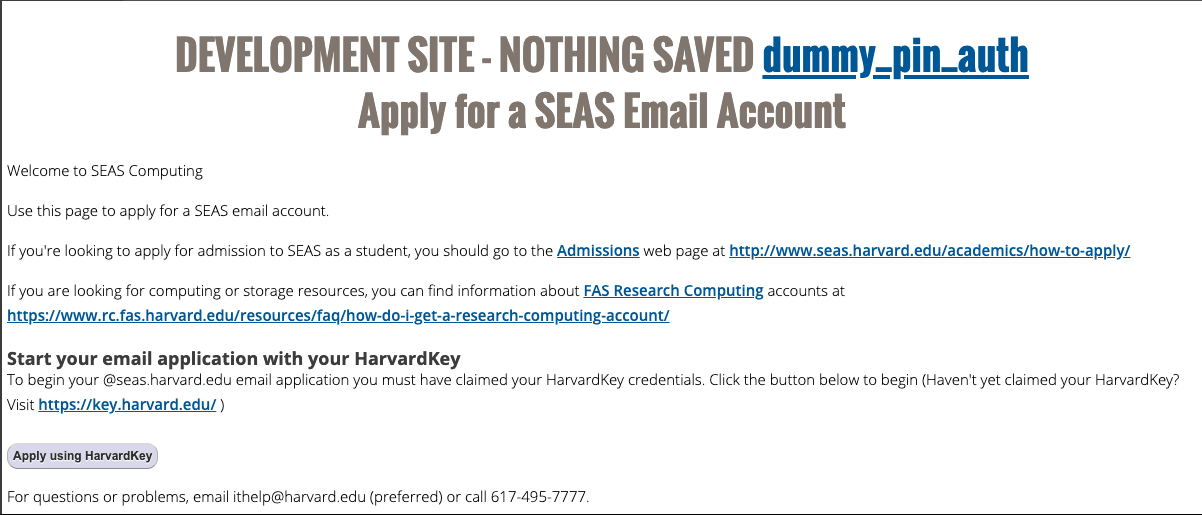
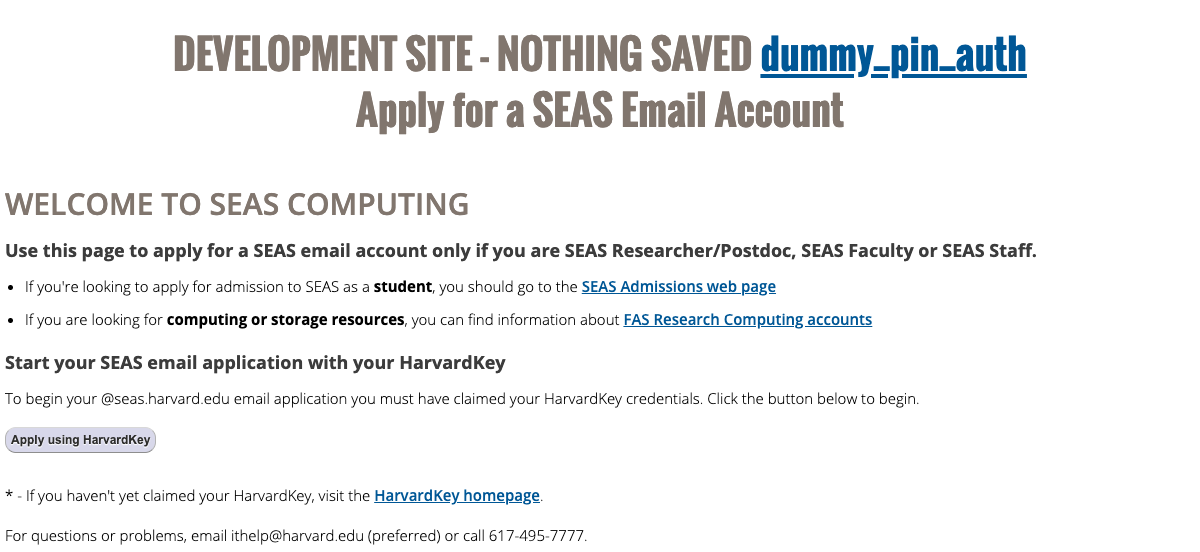
Add files via upload

Changed region(s): [[0.0, 0.3107, 1.0, 1.0], [0.1233, 0.0621, 0.8633, 0.2796], [0.0, 0.0, 0.0308, 0.0311]]

diff --git a/SEAS-applySEAS/index.html b/SEAS-applySEAS/index.html
@@ -1,15 +1,15 @@
 <!-- Affiliation selection page -->
 
-
-
-<h3><font color="black">Affiliation*</font></h3>
+<!-- Finding #1 - Use label elements to associate text labels with form controls, whether drop downs, check boxes, etc. -->
+<!-- Finding #2 - Skipping heading ranks can be confusing and should be avoided where possible. Use styled h2 instead of h3. -->
+<h2 style="font-weight: 700; font-size: 1.2em;"><font color="black"><label for="affil"></label>Affiliation*</font>label></font></h2>
 
 <p>
 Please indicate your affiliation with SEAS.
 </p>
 
 <p>
-<select name="affil"><option value="">--Select One--</option>
+<select name="affil" id="affil"><option value="">--Select One--</option>
 <option value="grad">SEAS Graduate Student</option>
 <option value="ugrad">SEAS Undergrad Student</option>
 <option value="research">SEAS Researcher/Postdoc</option>
@@ -25,81 +25,80 @@ Please indicate your affiliation with SEAS.
 <option value="other">None of the Above</option></select><br>
 </p>
 
+<!-- Screen reader directions -->
+<!-- Recommended hidden code and hidden anchor links to direct screen reader users to specific information -->
 
-
-
-
-
-
-
-
-
-
-
-
-
-
-
-
-
-
-
+<!-- Just below the <body> tag -->
+<div style="display: none;">
+    <h2>Instructions for screen reader users</h2>
+    <h2><strong>Urgent</strong> please disregard any other content of this web page except for the instructions below</h2>
+    <h3>Affiliation</h3>
+    <ul>
+        <li>
+            <!-- Copy of form_pg2 without id=seastransfer_0 -->
+            If yor affiliation is SEAS Researcher/Postdoc or SEAS Faculty, <a href="#form_pg2">fill and submit this form.</a>
+        </li>
+        <li>
+            <!-- Copy of form_pg2 with id=seastransfer_0 -->
+            If yor affiliation is SEAS Staff, <a href="#form_pg2">fill and submit this form.</a>
+        </li>
+    </ul>
+</div>
 
 ...
+<!-- Adding a role="status" property so that screenreaders can be made aware of the username message -->
+<!-- More details in the "Examples" section of https://accessibility.huit.harvard.edu/%E2%9C%8E-technique-status-messages -->
+<div id="usernameavail" role="status"><span style="color:#003300; background-color:#99FF99">username "rgrarr" is available</span></div>
 
-
-<div id="usernameavail"><span style="color:#003300; background-color:#99FF99">username "rgrarr" is available</span></div>
-
-<!-- Home page at https://password.seas.harvard.edu/itapps/apply/test2/ -->
+<!-- Home page at https://www.w3.org/WAI/WCAG21/Techniques/aria/ARIA23 -->
 
 <div id="zone-content" class="zone zone-content clearfix container-12">    
+    
+    <h1 class="block-title rtecenter" style="padding-top: .63em; text-transform: uppercase;">Development Site - Nothing Saved 
+        <a href="dummypin.pl" style="text-transform: none;">dummy_pin_auth</a>
         <br>
-        <h1 class="block-title rtecenter">DEVELOPMENT SITE - NOTHING SAVED 
-            <a href="dummypin.pl">dummy_pin_auth</a>
-            <br>
-            Apply for a SEAS Email Account
-        </h1>
-        <div style="padding: 5px 5px">
-            <p class="documentDescription">
-                <span class="" id="parent-fieldname-description">
-                    Welcome to SEAS Computing
-                </span>
+        <span style="text-transform: none;">Apply for a SEAS Email Account</span>
+    </h1>
+    <div style="padding: 5px 5px">
+        <h2 style="font-weight: 600;font-size: 2em;">
+            
+                Welcome to SEAS Computing
+            
+        </h2>
+        <div class="" id="parent-fieldname-text">
+            <h3>
+                Use this page to apply for a SEAS email account only if you are SEAS Researcher/Postdoc, SEAS Faculty or SEAS Staff.
+            </h3>
+            <ul style="list-style-image: none;"><li>
+                If you're looking to apply for admission to SEAS as a <strong>student</strong>, you should
+                go to the
+                <a href="http://www.seas.harvard.edu/academics/how-to-apply">SEAS Admissions web page</a>
+            </li>
+            <li>
+                If you are looking for <strong>computing or storage resources</strong>, you can find information about <a href="https://www.rc.fas.harvard.edu/">FAS Research Computing accounts</a>
+            </li>
+            
+            </ul>
+            <h3>
+                Start your SEAS email application with your HarvardKey
+            </h3>
+            <p>To begin your @seas.harvard.edu email application you must have claimed your HarvardKey credentials*.
+            Click the button below to begin.</p>
+            
+
+            
+            
+            <!-- FORM METHOD=POST ACTION="https://www.pin1.harvard.edu/pin/default.asp?__authen_application=SEAS_COMPUTING_ACCAPP"-->
+            <p></p><a href="https://www.pin1.harvard.edu/pin/default.asp?__authen_application=SEAS_COMPUTING_ACCAPP">
+                <input type="BUTTON" name="Submit" value="Apply using HarvardKey" style="padding: 5px 5px 5px 5px; background: #DDDDED">
+                <!-- INPUT TYPE=SUBMIT NAME="Submit" VALUE="Apply using HarvardKey" style="padding: 5px 5px 5px 5px; background: #DDDDED"-->
+            </a></p>
+            <!-- /FORM-->
+            <p style="margin-top: 2em;">* - If you haven't yet claimed your HarvardKey, visit the <a href="https://key.harvard.edu/">HarvardKey homepage</a>.</p>
+            <p>
+                For questions or problems, email ithelp@harvard.edu (preferred) or
+                call 617-495-7777.
             </p>
-            <div class="" id="parent-fieldname-text">
-                <p>
-                    Use this page to apply for a SEAS email account.
-                </p>
-                <p>
-                    If you're looking to apply for admission to SEAS as a student, you should
-                    go to the
-                    <a href="http://www.seas.harvard.edu/academics/how-to-apply">Admissions</a> web page at
-                    <a href="http://www.seas.harvard.edu/academics/how-to-apply">http://www.seas.harvard.edu/academics/how-to-apply/</a>
-                </p>
-                <p>
-                    If you are looking for computing or storage resources, you can find information about <a href="https://www.rc.fas.harvard.edu/">FAS Research Computing</a> accounts at <a href="https://www.rc.fas.harvard.edu/resources/faq/how-do-i-get-a-research-computing-account/">https://www.rc.fas.harvard.edu/resources/faq/how-do-i-get-a-research-computing-account/</a>
-                </p>
-                <p>
-                </p>
-                <h3>
-                    Start your email application with your HarvardKey
-                </h3>
-                To begin your @seas.harvard.edu email application you must have claimed your HarvardKey credentials.
-                Click the button below to begin
-                (Haven't yet claimed your HarvardKey? Visit
-                <a href="https://key.harvard.edu/">https://key.harvard.edu/</a> )
-                <br>
-                <br>
-                <!-- FORM METHOD=POST ACTION="https://www.pin1.harvard.edu/pin/default.asp?__authen_application=SEAS_COMPUTING_ACCAPP"-->
-                <a href="https://www.pin1.harvard.edu/pin/default.asp?__authen_application=SEAS_COMPUTING_ACCAPP">
-                    <input type="BUTTON" name="Submit" value="Apply using HarvardKey" style="padding: 5px 5px 5px 5px; background: #DDDDED">
-                    <!-- INPUT TYPE=SUBMIT NAME="Submit" VALUE="Apply using HarvardKey" style="padding: 5px 5px 5px 5px; background: #DDDDED"-->
-                </a>
-                <!-- /FORM-->
-                <p></p>
-                <p>
-                    For questions or problems, email ithelp@harvard.edu (preferred) or
-                    call 617-495-7777.
-                </p>
-            </div>
         </div>
     </div>
+</div>
